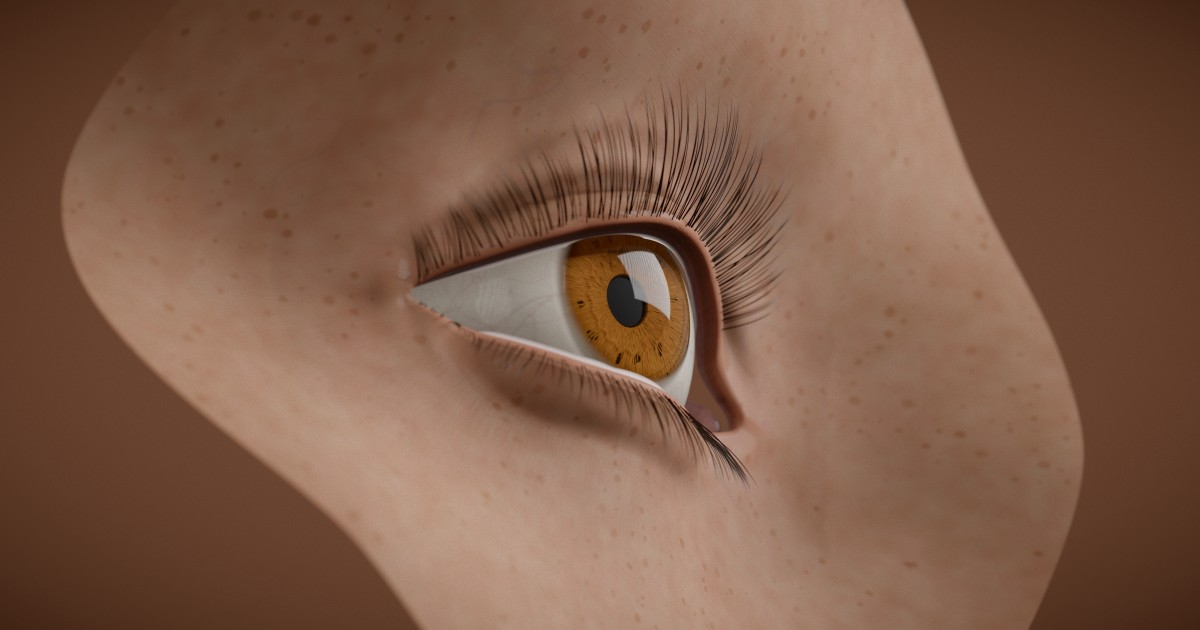
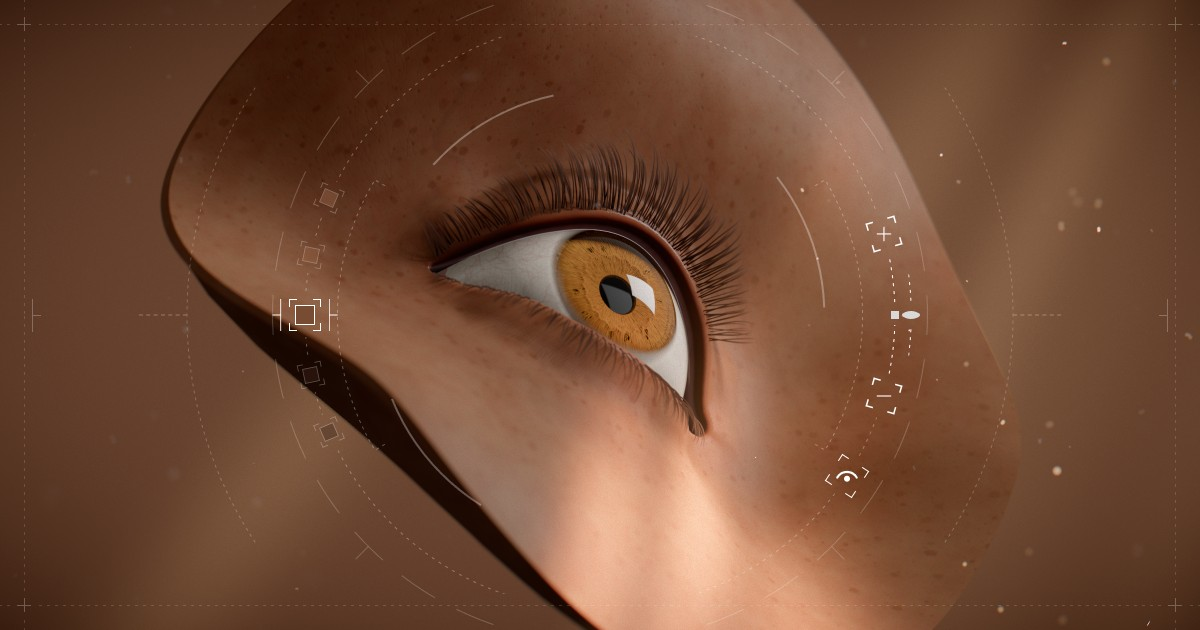
update OG image

diff --git a/index.html b/index.html
@@ -25,7 +25,7 @@
 		<meta property="og:image:height" content="630" />
 		<meta
 			property="og:image:alt"
-			content="A procedural human eye with an amber iris, framed by freckled skin and long lashes."
+			content="A procedural human eye with an amber iris, framed by freckled skin and long lashes, inside the rings and controls of a camera-like HUD."
 		/>
 		<meta name="twitter:card" content="summary_large_image" />
 		<meta name="twitter:title" content="Random-eyes · a digital eye configurator" />

diff --git a/docs/DEVELOPMENT.md b/docs/DEVELOPMENT.md
@@ -47,9 +47,9 @@ pnpm sounds         # cuts the recorded sounds from their CC0 sources into src/a
 ## Site Assets
 
 - **Head** ([`index.html`](../index.html)): the title and description of **Random-eyes**, the icons, the Open Graph and Twitter cards.
-- **Images** ([`public/`](../public/), copied as they are into `dist/`): `favicon.ico` (16, 32 and 48 px), `icon-192.png` and `apple-touch-icon.png` (180 px, square, opaque), all the default eye's iris seen from the front, and `og-image.jpg` (1200×630), the opening desktop scene. [`scripts/brand.mjs`](../scripts/brand.mjs) (`pnpm brand [--samples 128]`) renders them with the app in headless Chrome, converged in photo mode: rerun it when the default eye or the opening framing changes.
+- **Images** ([`public/`](../public/), copied as they are into `dist/`): `favicon.ico` (16, 32 and 48 px), `icon-192.png` and `apple-touch-icon.png` (180 px, square, opaque), all the default eye's iris seen from the front, and `og-image.jpg` (1200×630), the opening desktop scene with the frame and the HUD. [`scripts/brand.mjs`](../scripts/brand.mjs) (`pnpm brand [--samples 128]`) renders them with the app in headless Chrome, converged in photo mode: rerun it when the default eye, the opening framing or the HUD changes.
   - The iris: a still eye from the front, without the lids, lashes and tear meniscus, cut to a circle around the limbus as the camera projects it.
-  - The scene: `?gui=0` at 1200×630, rendered at twice the size and scaled down.
+  - The scene: the page with its interface at 1200×630, rendered at twice the size and scaled down. A style sheet hides its texts (the title and the line about the project, the credit line, the frame rate, the HUD's readouts) and Snapshot, and the image is a screenshot of the page, not `capture()`.
 - **Sounds** ([`src/audio/sounds/`](../src/audio/sounds/), imported with `?url`; the files under 4 KB are inlined): mono MP3 cuts of CC0 camera recordings from Freesound, about 100 KB, with their sources in `CREDITS.md`. [`scripts/sounds.mjs`](../scripts/sounds.mjs) (`pnpm sounds [--only <name>]`) cuts them from the manifest [`scripts/sounds.json`](../scripts/sounds.json) ([`docs/AUDIO.md`](AUDIO.md#recordings)).
 - **`VITE_SITE_URL`** ([`.env`](../.env), empty by default): the site's origin, such as `https://example.com`. Social cards need absolute image URLs; Vite writes it in front of `/og-image.jpg` at build time. Set it on the host or in `.env.production.local`.
 

diff --git a/docs/AUDIO.md b/docs/AUDIO.md
@@ -15,7 +15,7 @@ The interface sounds like a camera. Every control of the HUD makes the mechanica
 - **Mute**: the master fades to 0 (time constant 0.08 s) and the context then suspends. A hidden page suspends it too, and a visible page resumes it unless muted.
 - **Stats**: `stats()` returns the context's state, whether the sounds are decoded, the mute and the play count of each sound, plus the peak and RMS of the master (dBFS) since the last call. The analyser is read once a frame, so a sound played while the main thread is blocked (`capture()` while Snapshot saves) can escape the peak while it still plays in full.
 
-The sound exists only with the interface: [`main.js`](../main.js) builds it inside the `?gui=0` check, so captures and `pnpm brand` never create a context.
+The sound exists only with the interface: [`main.js`](../main.js) builds it inside the `?gui=0` check, so captures never create a context. `pnpm brand` renders the Open Graph image with the interface, but presses nothing, so it never creates one either.
 
 [`main.js`](../main.js) wires it:
 - It creates `AudioEngine` and `CameraFoley`.
